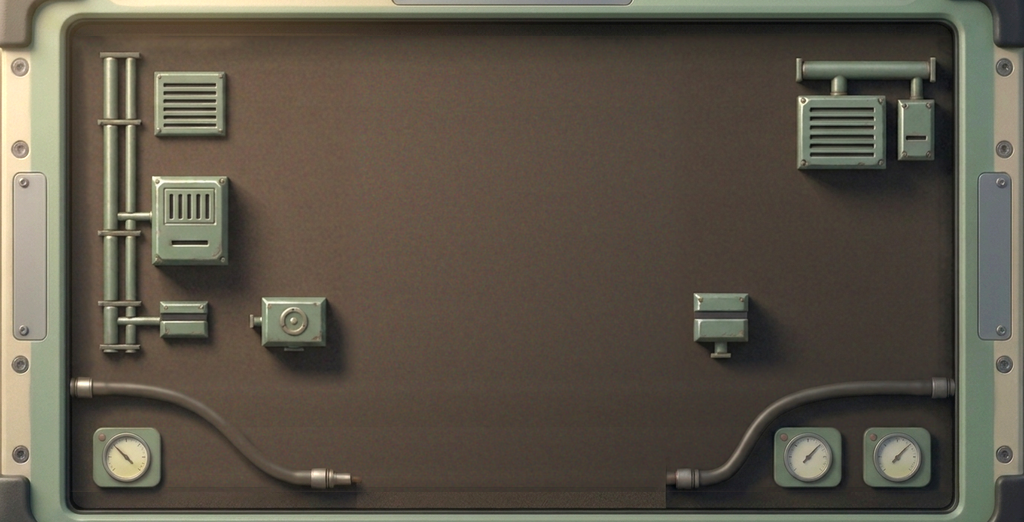
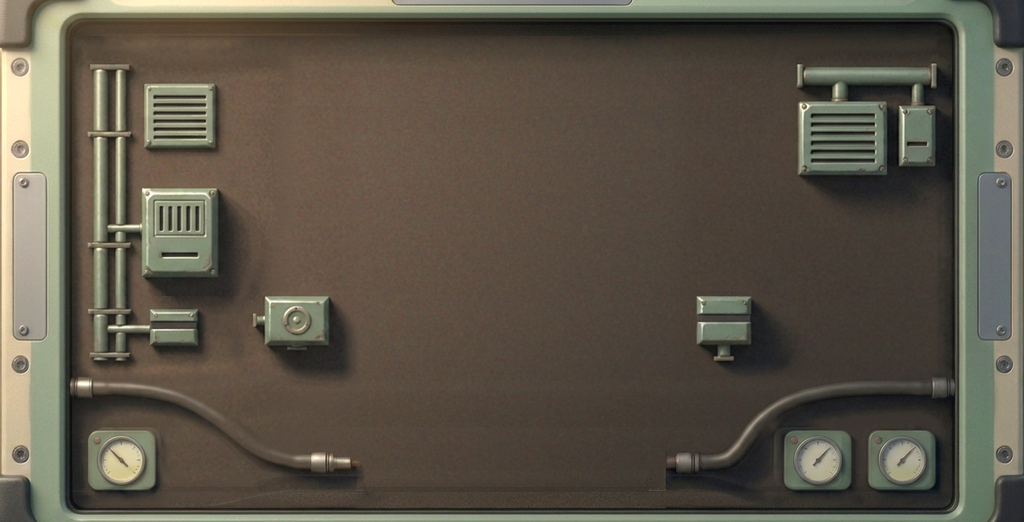
Pods masters: IA2, the Incubator stage recut onto the layout grid (every object moved whole with its shadow, the hose ends lifted 16 px to the base at 440)

diff --git a/art/station-masters/pods/stage-incubator/rework/recut-ia2.py b/art/station-masters/pods/stage-incubator/rework/recut-ia2.py
@@ -1,0 +1,128 @@
+"""IA2 (T-20261015-07): room-bench-stage-incubator recut onto the layout spec's grid, same id, 1024x522 at (0, 40); slice y = screen y - 40.
+No restyle: the T-01 pixels are moved, never repainted.
+1. Tone: the wall under the objects and their shadows (hand rects, grown) is filled harmonically (Laplace, coarse to fine, Neumann
+   at the wall's seams) from the bare wall around it; the floor line's row profile (rows 470-506) is put back into the fill.
+2. Layers: an object with its cast shadow is every pixel deviating from the tone by more than 3 (mean), ramped to full at 8;
+   each pixel goes to the object whose assignment rect holds it. A layer is its deviation from the tone (object, shadow and the grain
+   under them).
+3. The places the layers leave are repainted as tone + the wall's own grain (high-passed, clamped to 8, from bare wall at an offset);
+   everything else stays pixel for pixel. Each layer is laid back at its move on the tone there.
+   - The left column (-10, +12) loses 4 riser rows between its two lower clamps (CUT), so its lower part moves (-10, +8).
+   - The hoses keep their wall ends; their base ends rise 16 px (the base 456 -> 440) through a vertical shift ramped along the last
+     bend only (left: x RAMP_L, right: x RAMP_R).
+usage: python3 -I recut-ia2.py STAGE.png OUT.png [DEBUG_DIR]"""
+import sys, os, numpy as np
+from PIL import Image
+from scipy import ndimage as nd
+
+src, out = sys.argv[1:3]; dbg = sys.argv[3] if len(sys.argv) > 3 else None
+st = np.asarray(Image.open(src).convert('RGB')).astype(float); H, W = st.shape[:2]
+WX0, WX1, WY0, WY1 = 72, 952, 24, 507                 # the wall inside its seams (slice), exclusive ends
+win = (slice(WY0, WY1), slice(WX0, WX1))
+FILL = [(84, 44, 300, 300), (84, 290, 254, 374), (236, 286, 362, 388), (676, 276, 808, 402), (780, 44, WX1, 224),
+        (84, 420, 184, WY1), (764, 420, 862, WY1), (856, 420, WX1, WY1), (WX0, 368, 366, WY1), (632, 368, WX1, WY1)]
+# each object's ink now (the spec's screen boxes, grown 4, as slice rects) and its move (dx, dy); the hoses are the rest of the ink
+# in their rects. Every layer pixel belongs to the object with the nearest ink (so a shadow goes with the object that casts it).
+OBJ = [('col', (94, 48, 231, 356), (-10, 12)), ('LM', (246, 293, 329, 354), (3, -1)), ('RM', (689, 289, 752, 361), (3, 3)),
+       ('R', (792, 54, 939, 172), (1, 6)), ('GL', (89, 424, 165, 491), (-5, 3)), ('GR1', (770, 423, 846, 491), (10, 3)),
+       ('GR2', (860, 423, 935, 491), (5, 3)), ('hoseL', (WX0, 376, 366, WY1), None), ('hoseR', (632, 376, WX1, WY1), None)]
+CUT = 284                  # first of the 4 riser rows taken out (slice), between the clamps at 232 and 303
+RAMP_L, RAMP_R, LIFT = (196, 296), (700, 772), 16
+
+def harmonic(t, inside, iters):
+    t = t.copy()
+    for _ in range(iters):
+        p = np.pad(t, ((1, 1), (1, 1), (0, 0)), mode='edge')
+        avg = (p[:-2, 1:-1] + p[2:, 1:-1] + p[1:-1, :-2] + p[1:-1, 2:]) / 4
+        t[inside] = avg[inside]
+    return t
+def rs(a, size):
+    return np.stack([np.asarray(Image.fromarray(a[..., c].astype(np.float32)).resize(size, Image.BILINEAR)) for c in range(a.shape[2])], -1).astype(float)
+D = np.zeros((H, W), bool)
+for x0, y0, x1, y1 in FILL: D[y0:y1, x0:x1] = True
+lp = nd.gaussian_filter(st, (1.5, 1.5, 0))
+prof = np.zeros(H)                                    # the floor line: rows 470-506 minus their vertical low-pass, on bare wall
+band = lp[:, 380:620].mean((1, 2)); prof[470:WY1] = (band - nd.gaussian_filter1d(band, 8))[470:WY1]
+def tone(D):
+    lw = (lp - prof[:, None, None])[win]; ins = D[win]
+    sh = (lw.shape[1] // 4, lw.shape[0] // 4)
+    small = rs(lw, sh); ins_s = rs(ins[..., None] * 255.0, sh)[..., 0] > 0
+    small = harmonic(np.where(ins_s[..., None], small.mean((0, 1)), small), ins_s, 4000)
+    T = lp.copy(); T[win] = harmonic(np.where(ins[..., None], rs(small, lw.shape[1::-1]), lw), ins, 600) + prof[win[0], None, None]
+    return np.where(D[..., None], T, lp)
+def inkof(T, D):
+    r = (st + 1) / (T + 1)
+    return nd.binary_opening((((r.max(-1) - r.min(-1)) > 0.14) | (r.mean(-1) > 1.15)) & (np.abs(st - T).mean(-1) > 12) & D, iterations=1)
+T = tone(D)
+# the floor pocket at the right (the dark ground under the hose and the gauges) is the wall there, not a shadow: in BR the
+# fill takes only each object's ink grown 14 (gauges) or 24 (the hose), so the pocket stays put and only the objects and their near shadows move
+BR = (632, 376, WX1, WY1)
+br = np.zeros((H, W), bool); br[BR[1]:BR[3], BR[0]:BR[2]] = True
+ink0 = inkof(T, D) & br; gauges = np.zeros((H, W), bool)
+for n_, (x0, y0, x1, y1), mv_ in OBJ:
+    if n_ in ('GR1', 'GR2'): gauges[y0:y1, x0:x1] = True
+D = (D & ~br) | ((nd.binary_dilation(ink0 & gauges, iterations=14) | nd.binary_dilation(ink0 & ~gauges, iterations=24)) & br)
+T = tone(D)
+
+# layers
+dev = np.abs(st - T).mean(-1)
+wfull = np.clip((dev - 3) / 5, 0, 1); wfull = np.maximum(wfull, nd.gaussian_filter(wfull, 1.0)) * D
+ink = inkof(T, D)
+lab = np.zeros((H, W), int)
+for i, (n, (x0, y0, x1, y1), mv) in enumerate(OBJ):
+    sub = lab[y0:y1, x0:x1]; sub[(sub == 0) & ink[y0:y1, x0:x1]] = i + 1
+dist = np.stack([nd.distance_transform_edt(lab != i + 1) for i in range(len(OBJ))])
+own = np.exp(-(dist - dist.min(0)) / 4.0); own /= own.sum(0)       # soft: shadows that meet are shared, not cut
+delta = st - T
+Wsrc = wfull * np.clip((56 - nd.distance_transform_edt(~ink)) / 16, 0, 1)   # a shadow is within 40 px of its object (fading to 56)
+
+# grain from bare wall at an offset
+hp = np.clip(st - nd.gaussian_filter(st, (3, 3, 0)), -8, 8)
+bare = ~nd.binary_dilation(D, iterations=3); bare[:WY0] = bare[WY1:] = False; bare[:, :WX0] = bare[:, WX1:] = False
+G = np.zeros_like(st); got = np.zeros((H, W), bool)
+for dy, dx in [(0, 300), (0, -300), (0, 220), (0, -220), (-120, 0), (120, 0), (-200, 160), (-200, -160), (0, 400), (0, -400)]:
+    sh_hp = np.roll(hp, (dy, dx), (0, 1)); ok = np.roll(bare, (dy, dx), (0, 1)) & ~got
+    G[ok] = sh_hp[ok]; got |= ok
+canvas = st * (1 - Wsrc[..., None]) + (T + G) * Wsrc[..., None]
+
+def shift(a, dx, dy):
+    o = np.zeros_like(a); y0, y1 = max(0, dy), min(H, H + dy); x0, x1 = max(0, dx), min(W, W + dx)
+    o[y0:y1, x0:x1] = a[y0 - dy:y1 - dy, x0 - dx:x1 - dx]; return o
+
+ACC = np.zeros((H, W)); DEL = np.zeros_like(st)
+def add(d, w, dx, dy, ys=None):
+    global ACC, DEL
+    d2, w2 = shift(d, dx, dy), shift(w, dx, dy)
+    if ys is not None: w2[:ys[0]] = 0; w2[ys[1]:] = 0; d2[:ys[0]] = 0; d2[ys[1]:] = 0
+    ACC += w2; DEL += d2
+for i, (n, rect, mv) in enumerate(OBJ):
+    w = Wsrc * own[i]; d = delta * w[..., None]
+    if n == 'col':
+        dx, dy = mv
+        # the upper part (above CUT) moves (dx, dy); the lower part (from CUT + 4) moves (dx, dy - 4)
+        wu, du = w.copy(), d.copy(); wu[CUT:] = 0; du[CUT:] = 0; add(du, wu, dx, dy, (0, CUT + dy))
+        wl, dl = w.copy(), d.copy(); wl[:CUT + 4] = 0; dl[:CUT + 4] = 0; add(dl, wl, dx, dy - 4, (CUT + dy, H))
+    elif mv is not None:
+        add(d, w, *mv)
+    else:
+        x = np.arange(W, dtype=float)
+        if n == 'hoseL': t = np.clip((x - RAMP_L[0]) / (RAMP_L[1] - RAMP_L[0]), 0, 1)
+        else: t = np.clip((RAMP_R[1] - x) / (RAMP_R[1] - RAMP_R[0]), 0, 1)
+        s_ = LIFT * t * t * (3 - 2 * t)                # the lift at each column
+        yy, xx = np.mgrid[0:H, 0:W].astype(float); sy = yy + s_[None, :]
+        dw = np.stack([nd.map_coordinates(d[..., c], [sy, xx], order=1, mode='constant') for c in range(3)], -1)
+        ww = nd.map_coordinates(w, [sy, xx], order=1, mode='constant')
+        add(dw, ww, 0, 0)
+m = np.zeros((H, W), bool); m[win] = True
+A = np.clip(ACC, 0, 1) * m; DEL *= m[..., None]
+# where layers cover, the tone plus their summed deviation (a pixel shared by two shadows takes both shares)
+canvas = canvas * (1 - A[..., None]) + T * A[..., None] + DEL
+placed = ACC
+res = np.clip(np.round(canvas), 0, 255).astype(np.uint8)
+Image.fromarray(res).save(out)
+if dbg:
+    os.makedirs(dbg, exist_ok=True); np.save(os.path.join(dbg, 'tone.npy'), T)
+    Image.fromarray(np.clip(T, 0, 255).astype(np.uint8)).save(os.path.join(dbg, 'tone.png'))
+    Image.fromarray((np.clip(Wsrc, 0, 1) * 255).astype(np.uint8)).save(os.path.join(dbg, 'layers-before.png'))
+    Image.fromarray((np.clip(placed, 0, 1) * 255).astype(np.uint8)).save(os.path.join(dbg, 'layers-after.png'))
+    print('overlap px (placed > 1.05):', int((placed > 1.05).sum()))

diff --git a/art/station-masters/pods/stage-incubator/rework/mock-ia2.py b/art/station-masters/pods/stage-incubator/rework/mock-ia2.py
@@ -1,0 +1,41 @@
+"""IA2 proof: the recut stage mocked into the builder's 1x capture (public station-gate fix14/incubator-growing.png, drawn on the
+IA1 stage ed5bd3ff). Capture pixels equal to the IA1 stage (within 2) take the IA2 stage; the base block (with its plaque and foot
+light) is lifted 16 px to the spec's 440; the rail's well is shown at 48 (today) and at 40 (the leaf point, option b), with the
+outer arc's top leaf placed at its slot (504, 90) to show the clearance. The stamp and code stay where the capture has them.
+usage: python3 -I mock-ia2.py CAPTURE.png IA1_STAGE.png IA2_STAGE.png WELL48.png WELL40.png LEAF.png OUT_DIR"""
+import sys, os, numpy as np
+from PIL import Image
+cap, old, new, w48, w40, leaf, out = sys.argv[1:8]; os.makedirs(out, exist_ok=True)
+C = np.asarray(Image.open(cap).convert('RGB')).astype(float)
+O = np.asarray(Image.open(old).convert('RGB')).astype(float); N = np.asarray(Image.open(new).convert('RGB')).astype(float)
+def screen(st):
+    s = C.copy(); s[40:562] = st; return s
+OS, NS = screen(O), screen(N)
+eq = np.abs(C - OS).max(-1) <= 2; eq[:40] = False; eq[562:] = False
+M = np.where(eq[..., None], NS, C)
+# the base, lifted 16: its pixels are the capture's non-stage pixels in its rect (344, 456, 336, 96), the foot light included
+bx0, by0, bw, bh = 344, 456, 336, 96
+reg = ~eq[by0:by0 + bh, bx0:bx0 + bw]
+src = C[by0:by0 + bh, bx0:bx0 + bw]
+vac = M[by0:by0 + bh, bx0:bx0 + bw]; vac[reg] = NS[by0:by0 + bh, bx0:bx0 + bw][reg]   # what the base leaves shows the stage
+dst = M[by0 - 16:by0 - 16 + bh, bx0:bx0 + bw]; dst[reg] = src[reg]
+def over(base, im, x, y):
+    a = np.asarray(Image.open(im).convert('RGBA')).astype(float); h, w = a.shape[:2]; al = a[..., 3:] / 255
+    base[y:y + h, x:x + w] = base[y:y + h, x:x + w] * (1 - al) + a[..., :3] * al
+# the well: 4 full tabs, run 560 centred on 512 -> x0 232, the well at (224, 40); not-tab = capture equal to the IA1 stage + 48 well
+W48 = OS.copy(); over(W48, w48, 224, 40)
+nottab = np.zeros(eq.shape, bool); nottab[40:88, 224:800] = (np.abs(C - W48).max(-1) <= 3)[40:88, 224:800]
+res = {}
+for n, wp in (('48', w48), ('40', w40)):
+    S_ = NS.copy(); over(S_, wp, 224, 40)
+    R = M.copy(); R[nottab] = S_[nottab]
+    res[n] = R
+    Image.fromarray(np.clip(np.round(R), 0, 255).astype(np.uint8)).save(os.path.join(out, f'mock-incubator-growing-well{n}-1x.png'))
+    L = R.copy(); over(L, leaf, 504, 90); res[n + 'leaf'] = L
+# the leaf point at 1x: the rail's band with the outer top leaf at its slot, well 48 over well 40
+band = np.concatenate([res['48leaf'][24:136, 192:832], np.full((4, 640, 3), 255.0), res['40leaf'][24:136, 192:832]], 0)
+Image.fromarray(np.clip(np.round(band), 0, 255).astype(np.uint8)).save(os.path.join(out, 'leaf-point-well48-over-well40-1x.png'))
+# before/after at 1x: the capture over the mock (well 48)
+ba = np.concatenate([C, np.full((4, 1024, 3), 255.0), res['48']], 0)
+Image.fromarray(np.clip(np.round(ba), 0, 255).astype(np.uint8)).save(os.path.join(out, 'before-after-ia2-1x.png'))
+print('stage px swapped', int(eq.sum()), 'base px lifted', int(reg.sum()), 'well px', int(nottab.sum()))

diff --git a/art/station-masters/pods/stage-incubator/rework/README.md b/art/station-masters/pods/stage-incubator/rework/README.md
@@ -22,3 +22,22 @@
 **Not in this ticket, noted for the gate:**
 - The stamp label at the right is still the code-drawn flat grey plate. The fix needs no new art: the label in `plate-well-120x120`, as ruled for Habitat.
 - The chamber's inside wall (`dome-back` / `dome-inside-*`) is a soft flat gradient. It is the next candidate if the gate still reads the screen as flat.
+
+# T-20261015-07: IA2, the stage recut onto the layout grid (AD, 10-15, 0 MXN, by hand)
+
+`room-bench-stage-incubator`, the same id, 1024 × 522 at (0, 40), made by `recut-ia2.py` from the T-01 stage. Nothing is repainted in style: each object is lifted with its cast shadow as its deviation from the wall's tone and laid back at its move; the place it leaves is the wall's own tone and grain.
+
+| Object | Move | Ink after (screen, measured) |
+|---|---|---|
+| Left column | (−10, +12), 4 riser rows taken out between the two lower clamps (slice rows 284–287), so the lower part moves (−10, +8) | top 104 |
+| LM valve | (+3, −1) | 336–388 rows |
+| RM pump | (+3, +3) | 696–750 × 336–399 |
+| R group | (+1, +6) | 797–935 × 104–213 (±1) |
+| Gauges | (−5, +3), (+10, +3), (+5, +3) | 88–155, 784–850, 868–934 × 470/471–528/529 |
+| Hoses | wall ends kept; base ends lifted 16 px along the last bend only (x 196–296 and 700–772) | couplings at rows 493–504 and 495–502 |
+
+- The right floor pocket (the dark ground under the hose and the gauges) stays put; only the objects and their near shadows move.
+- Outside the wall nothing changes. Inside the keep-clears, only where an object left or arrived: the column's shadow in the leaf band (x 248–296), the hose ends and the LM/RM shadows in the chamber's box, and the R group's shadow at the label's top (rows 232–262).
+- Zone luminance (relative, linear): L p95 0.459 / mean 0.163; R 0.315 / 0.130; LM 0.437 / 0.170; RM 0.273 / 0.099. The T-01 stage measured the same before the move (0.464 / 0.168, 0.312 / 0.124, 0.435 / 0.168, 0.251 / 0.088). The p95 cap of 0.162 does not hold: it was the IA1 gauge housings' value, and T-01's lit sage tops sit above it. All four means are under 0.287.
+- The rail's well at 40 (the leaf point): it does not read. At 40 its bottom wall and lit lip sit behind the tabs (y 40–80), so only the two slanted ends show; at 48 the 5 px sage lip under the tabs is what makes it a well. No `x40` ids cut. `proof-ia2/leaf-point-well48-over-well40-1x.png` shows both, with the outer arc's top leaf at its slot (504, 90).
+- **Proof** `proof-ia2/`: `mock-incubator-growing-well48-1x.png` (the IA2 stage in public station-gate cd3163ad `fix14/incubator-growing.png`, the base and its foot light lifted to 440), the same with the 40 well, `before-after-ia2-1x.png`. Made by `mock-ia2.py`.
